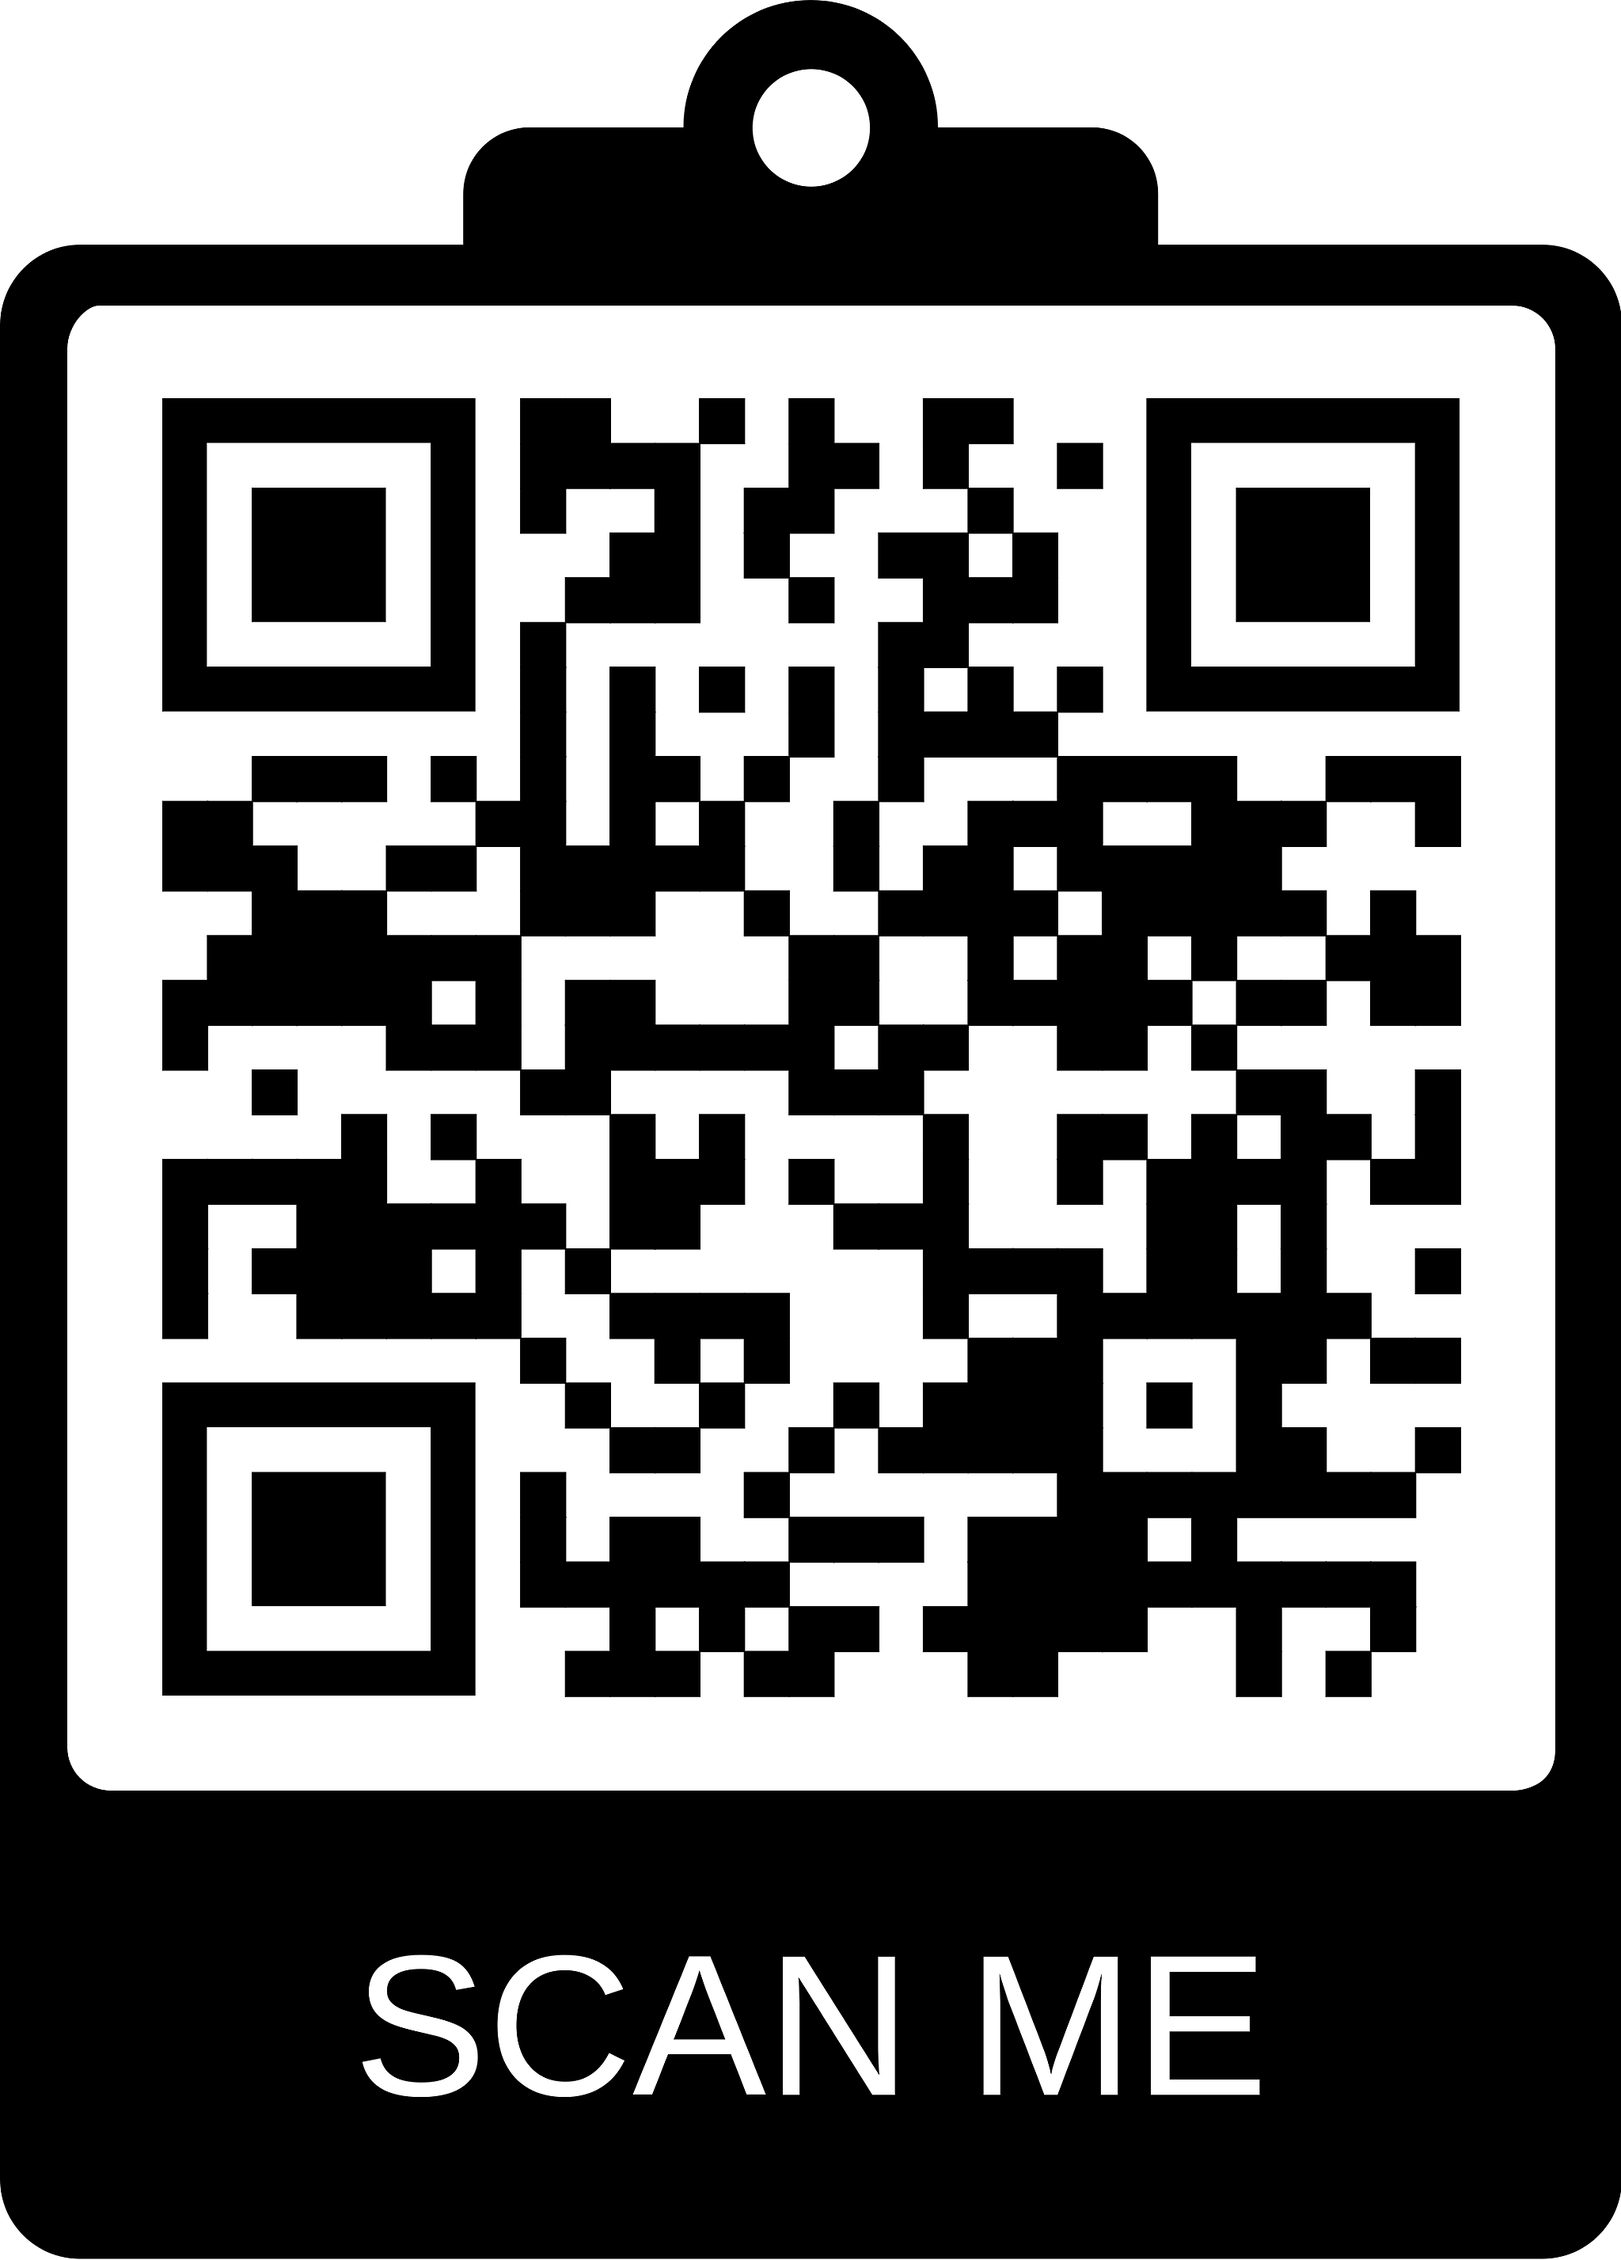
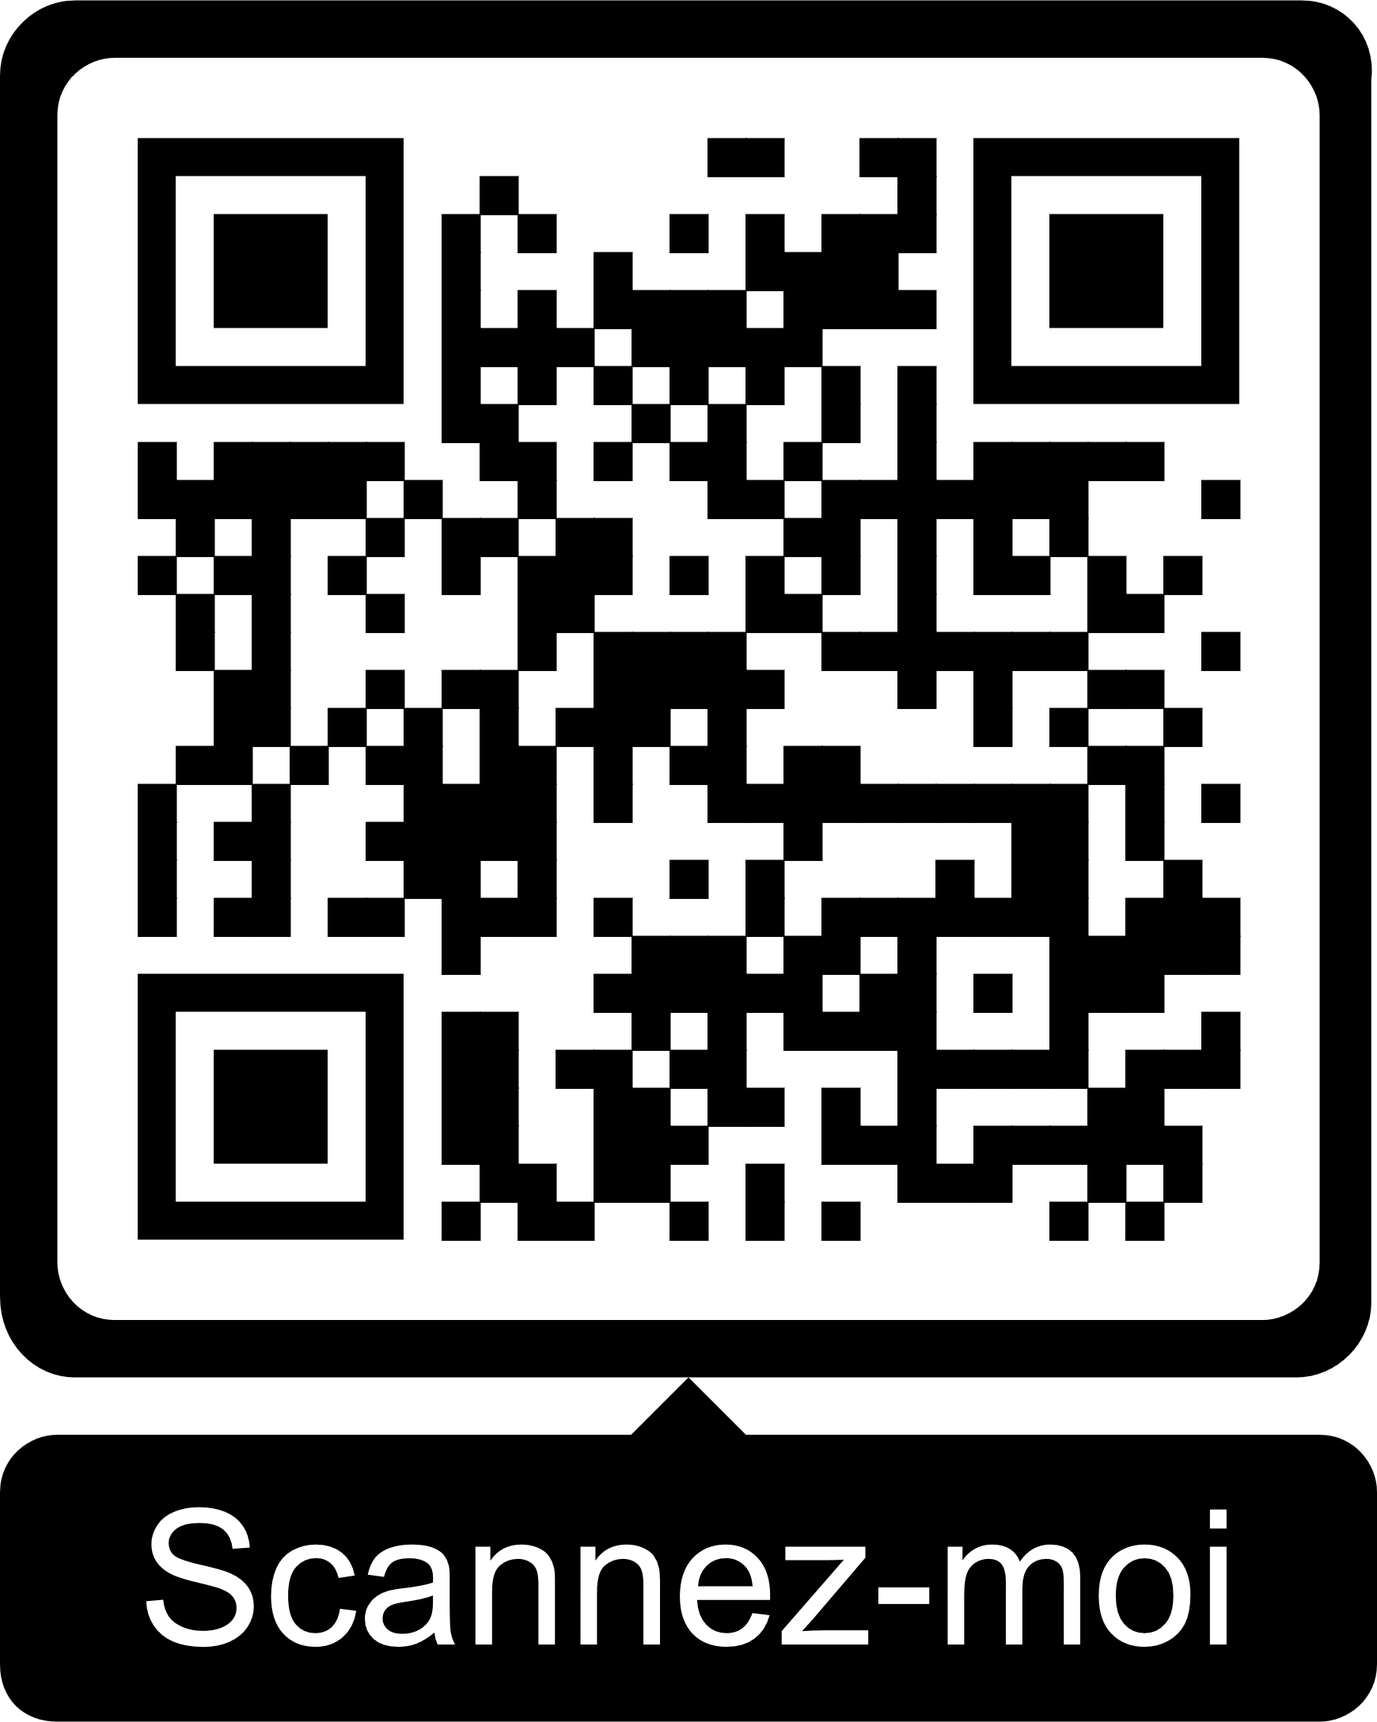
be-bloody - remplacement du QR code par un totalement gratuit, et précisions mineures dans l'article

diff --git a/content/fr/be-bloody/index.md b/content/fr/be-bloody/index.md
@@ -7,6 +7,8 @@ draft = false
 BeBloody (”Soyez saignant !”) est une mini application web qui calcule les prochaines dates de dons possibles de sang, plasma et plaquettes en fonction de vos derniers dons.
 Le principe est simple: une fois un don effectué, vous l’ajoutez dans l’application, et elle vous indique les dates à partir desquelles les prochains seront possibles. Pratique pour prendre rendez-vous tant que vous êtes encore dans le centre de transfusion.
 
+C'est particulièrement utile pour les personnes qui font différents types de dons: jongler avec les dates limites devient vite fastidieux à calculer. C'est le problème que résout cette mini application web.
+
 {{< figure src="screenshot-main.png" alt="Interface BeBloody" width="300px" >}}
 
 ## En pratique
@@ -93,3 +95,11 @@ Merci pour votre lecture.
 &nbsp;
 
 {{< figure src="apple-touch-icon.png" alt="Logo BeBloody" height="80px" >}}
+
+&nbsp;
+
+&nbsp;
+
+&nbsp;
+
+_Code QR généré par https://qr-code-generator.org/_
